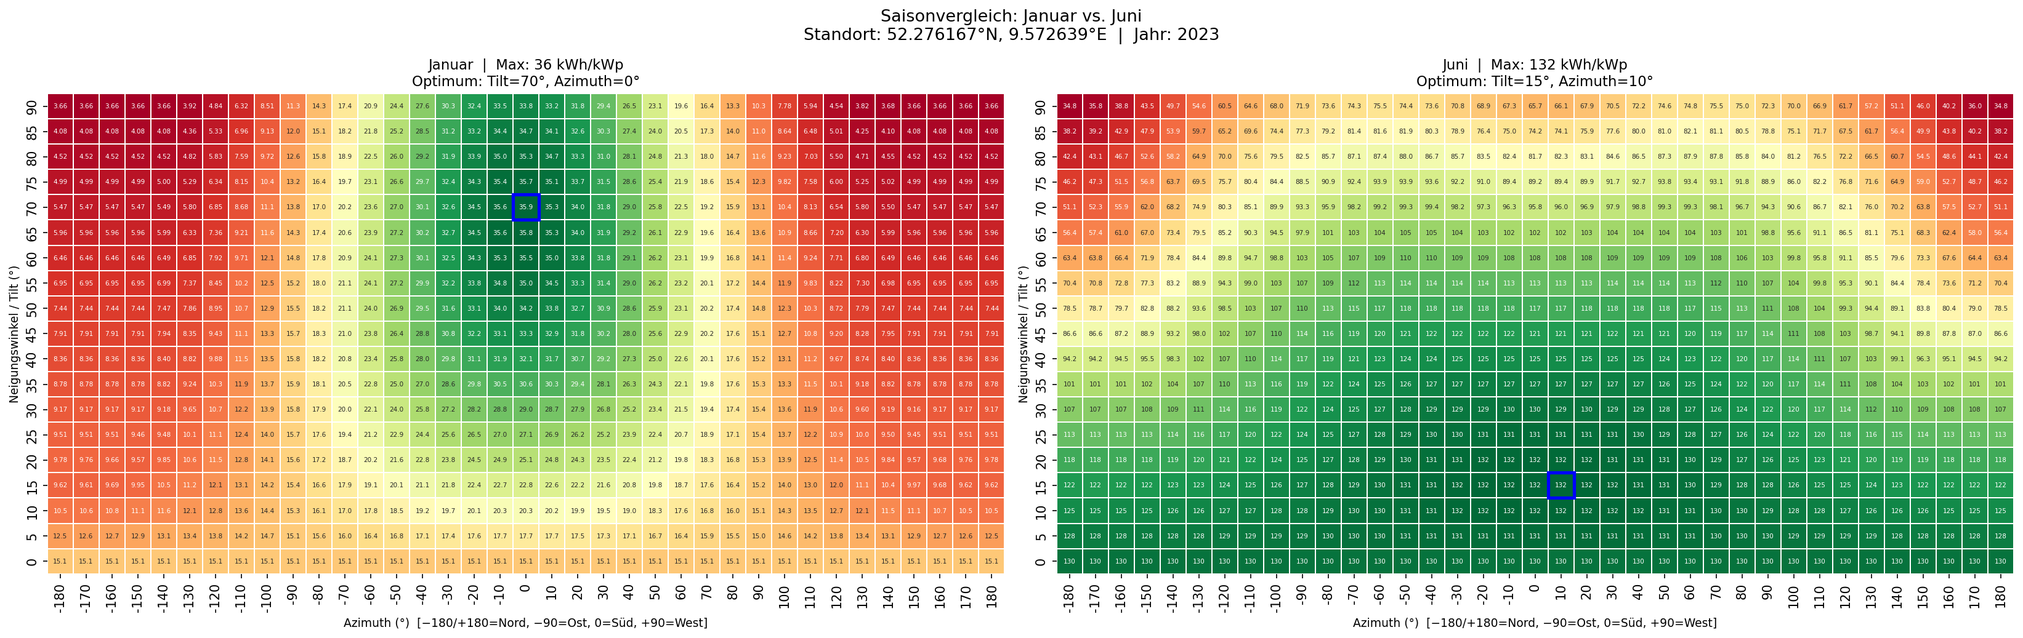
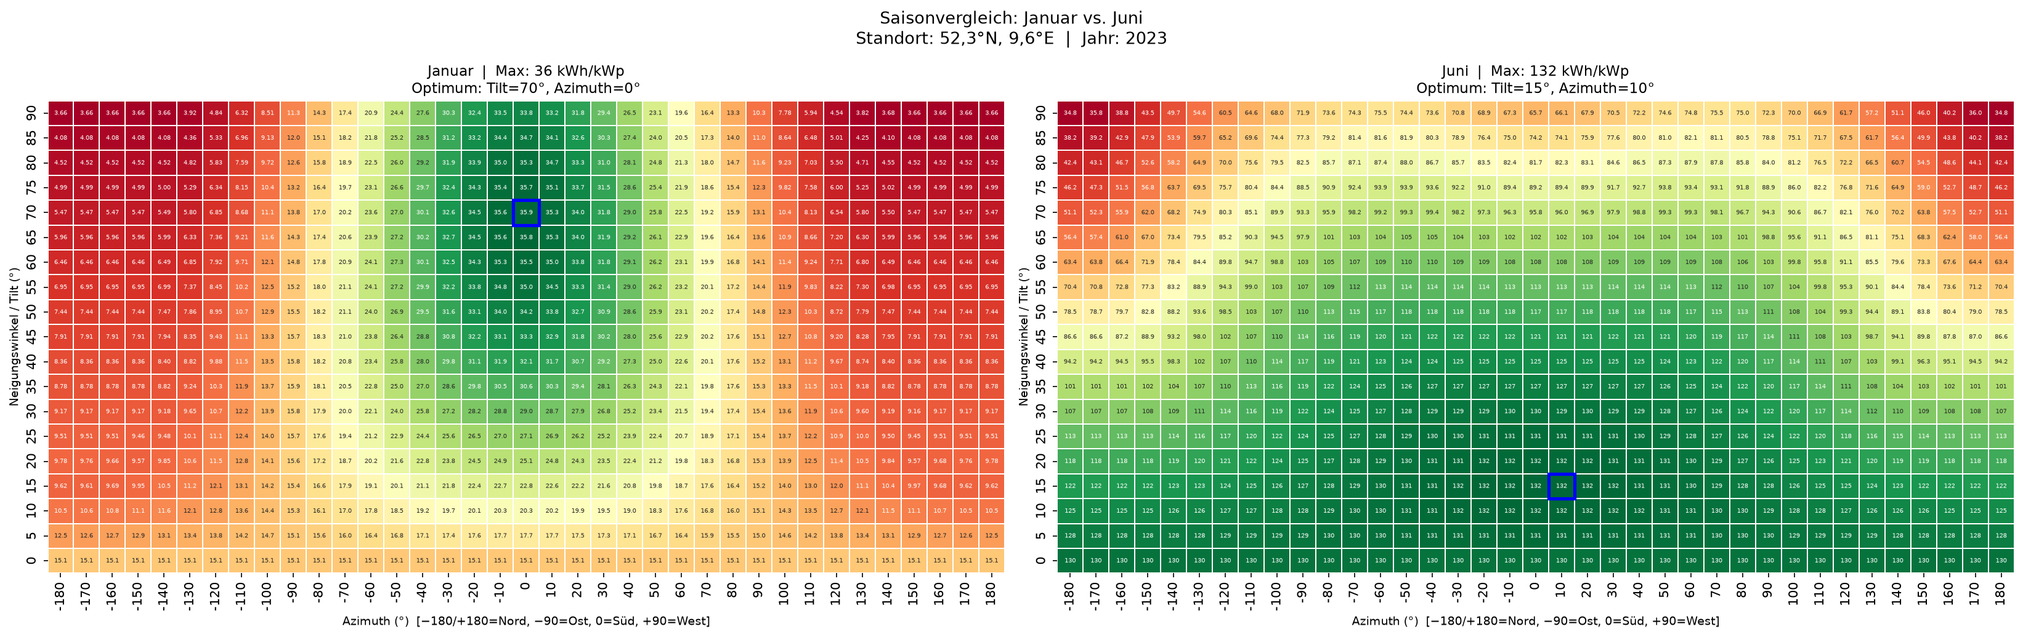
Neuer Beitrag: vertikale bifaziale Module — Ertrag und Einspeiseerlös
- vertikal.html mit sechs Abbildungen und zwei Tabellen, verlinkt aus index.html
- Standortangabe in allen Grafiken und Fußzeilen auf eine Nachkommastelle gekürzt,
  alle Abbildungen beider Beiträge dafür neu erzeugt
- Stylesheet um Formelblöcke und Tabellenbeschriftungen ergänzt

Changed region(s): [[0.0, 0.0928, 1.0, 0.9894], [0.4038, 0.0, 0.6212, 0.0928]]

diff --git a/vertikal.html b/vertikal.html
@@ -1,0 +1,220 @@
+<!DOCTYPE html>
+<html lang="de">
+<head>
+    <meta charset="UTF-8">
+    <meta name="viewport" content="width=device-width, initial-scale=1.0">
+    <title>Vertikale bifaziale Module — Ertrag und Einspeiseerlös</title>
+    <link rel="stylesheet" href="style.css">
+</head>
+<body>
+    <h1>Vertikale bifaziale Module —<br>Ertrag und Einspeiseerlös</h1>
+    <div class="meta">Von Dennis Leitz &nbsp;·&nbsp; 11. September 2026 &nbsp;·&nbsp; Solarenergie &amp; Datenanalyse</div>
+
+
+    <p class="intro-note">
+        Folgebeitrag zu <a href="index.html">PV-Ausrichtung schnell richtig entscheiden</a>. Dort ging es um Ertragsoptimierung durch die Ausrichtung von PV-Modulen. In diesem Beitrag kommt der Preis dazu, zu dem diese Kilowattstunden tatsächlich verkauft wurden, und welche neuen Schlüsse sich daraus ableiten lassen.
+    </p>
+
+    <h2>Einleitung</h2>
+    <p>
+        Die Ausrichtung einer Photovoltaikanlage wird üblicherweise so gewählt, dass der Jahresertrag möglichst hoch wird. In Norddeutschland führt das auf eine Südausrichtung mit 0° Azimut und 40° Neigung. Dieses Vorgehen ist dann richtig, wenn jede Kilowattstunde gleich viel wert ist. Bei fester Einspeisevergütung ist das der Fall.
+    </p>
+    <p>
+        Für Anlagen außerhalb der festen Vergütung gilt das nicht mehr. Dort ist der Strom nicht immer gleich viel wert; sein Preis entsteht aus Angebot und Nachfrage am Spotmarkt. Weil alle Solaranlagen gleichzeitig produzieren, ist der Preis oft gerade dann besonders niedrig, wenn die Sonne am höchsten steht. Damit wird die Frage nach der Ausrichtung neu gestellt: nicht mehr, wann am meisten Strom entsteht, sondern wann er am meisten wert ist.
+    </p>
+    <p>
+        Genau an diesem Punkt setzt ein Anlagenkonzept an: senkrecht aufgestellte bifaziale Module. Bifazial heißt, dass beide Seiten des Moduls Licht in Strom wandeln, nicht nur die Vorderseite. Bei einer zur Sonne geneigten Aufständerung bringt das wenig, weil die Rückseite zum Boden zeigt und lediglich Streulicht einfängt. Steht das Modul dagegen senkrecht, sind beide Seiten über den Tag hinweg nacheinander beleuchtet. Eine Ost-West-Ebene liefert dann morgens auf der einen und abends auf der anderen Seite Strom, mit einer Delle in der Mittagszeit. Genau in dieser Delle ist der Strom heute oft am wenigsten wert.
+    </p>
+    <p>
+        Dieser Beitrag prüft, was dieses Anlagenkonzept bringt. Erst wird der Jahresertrag betrachtet, dann der Erlös am Spotmarkt, und zuletzt die Entwicklung über die Preisjahre 2018 bis 2025.
+    </p>
+
+    <h2>Daten und Methoden</h2>
+    <p>
+        <strong>Ertragsseite.</strong> Grundlage sind stündliche Zeitreihen der PVGIS API v5.3 der Europäischen Kommission für einen Standort in Norddeutschland bei 52,3°N und 9,6°E. Abgerufen wurden alle Kombinationen aus 19 Neigungswinkeln von 0 bis 90° und 37 Himmelsrichtungen von −180° bis +180°, jeweils über die Jahre 2005 bis 2023, normiert auf 1 kWp Nennleistung und 14 % Systemverluste. Aus diesen 19 Jahren wird ein Typjahr gebildet: für jede der 8.760 Stunden eines Jahres der Mittelwert über alle Jahre. Einzelne gute oder schlechte Wetterjahre fallen damit heraus.
+    </p>
+    <p class="formel">P̄(m, d, h) = 1/N · Σ P_y(m, d, h) über y = 2005 … 2023, N = 19</p>
+    <p class="formel-note">P̄ ist die mittlere Leistung der Jahresstunde (Monat m, Tag d, Stunde h, UTC) in W je kWp, P_y der Wert dieser Stunde im Jahr y.</p>
+    <p>
+        <strong>Preisseite.</strong> Die Day-Ahead-Spotpreise der deutschen Gebotszone stammen von der Energy-Charts-API des Fraunhofer ISE, die ihrerseits auf den SMARD-Daten der Bundesnetzagentur beruht. Sie liegen ab 2015 vor: bis September 2018 für die gemeinsame Gebotszone mit Österreich, danach für Deutschland und Luxemburg.
+    </p>
+    <p>
+        <strong>Verknüpfung.</strong> Der Erlös eines Jahres ist die Summe über alle Stunden aus der Leistung dieser Stunde mal dem Spotpreis derselben Stunde. Die Ertragsseite ist dabei immer dasselbe Typjahr, nur die Preise wechseln. Unterschiede im Erlös zwischen den Preisjahren stammen also ausschließlich aus dem Markt und nicht aus dem Wetter.
+    </p>
+    <p class="formel">E(a) = Σ P̄_a,t / 1000 · p_t / 1000 über t = 1 … 8.760 [EUR/kWp]</p>
+    <p class="formel-note">E(a) ist der Jahreserlös der Ausrichtung a, P̄_a,t die Typjahr-Leistung der Stunde t in W je kWp und p_t der Spotpreis derselben Stunde in EUR/MWh.</p>
+    <p>
+        <strong>Vertikales bifaziales Modul.</strong> Ein vertikal aufgestelltes bifaziales Modul wird als Summe zweier gegenüberliegender Flächen gerechnet. Die Vorderseite geht mit vollem Wirkungsgrad ein, die Rückseite mit angenommenen 90 %. Da die Rückseite schwächer ist, ist es nicht gleichgültig, welche der beiden Himmelsrichtungen die starke Seite bekommt. Dasselbe Modul in derselben Ebene, nur um 180° gedreht montiert, ist deshalb ein eigener Fall und wird durchgehend mitgeführt.
+    </p>
+    <p class="formel">E_bi(β) = E(90°, β − 90°) + 0,9 · E(90°, β + 90°)</p>
+    <p class="formel-note">β ist die Ausrichtung der Modulebene, E(90°, a) der Wert der senkrechten Einzelfläche mit Azimut a. Für die um 180° gedrehte Montage tauschen die beiden Summanden ihre Faktoren.</p>
+    <p>
+        <strong>Ausrichtungsachse.</strong> Ein bifaziales Modul belegt immer zwei Modulebenen im Abstand von 180°. In den Abbildungen 2 bis 6 beschreibt die Abszisse die Orientierung der Modulebenen: bei 0° zeigt die Modulvorderseite nach Osten und die Modulrückseite nach Westen. Bei +90° zeigt die Modulvorderseite nach Süden und die Modulrückseite nach Norden. Bei 180° gedrehten Modulen sind Vorder- und Rückseite vertauscht. Die Ost-West-Ebene wurde als Nullpunkt gewählt, da sie für ein senkrecht montiertes bifaziales Modul am ehesten vergleichbar ist mit der 0°-Südausrichtung einer einseitigen Anlage. Sie sammelt Morgen- und Abendsonne spiegelbildlich zur Mittagsachse.
+    </p>
+    <p>
+        <strong>Referenz.</strong> Als Vergleichsmaßstab dient durchgehend die konventionelle Ausrichtung dieses Standorts: eine einseitige Anlage mit Azimut 0° nach Süden und 40° Neigung, also die Aufstellung mit dem höchsten Jahresertrag für monofaziale Module. Beim Ertrag ist das der stundenaufgelöste Mittelwert der 19 PVGIS-Jahre. Beim Erlös wird diese Ausrichtung wie jede andere gerechnet: dasselbe Typjahr, Stunde für Stunde mal den Spotpreisen des jeweiligen Preisjahres. Ertrags- und Erlösreferenz sind damit zwei verschiedene Kennzahlen derselben Aufstellung; beide stammen aus demselben Datensatz wie die vertikale Anlage und werden je Preisjahr neu gebildet.
+    </p>
+
+    <h2>Ergebnisse</h2>
+
+    <h3>Ausgangslage: der Ertrag aller Ausrichtungen</h3>
+    <p>
+        Abbildung 1 zeigt den mittleren Jahresertrag für alle möglichen Ausrichtungskombinationen. Jede Kachel steht für eine Aufstellung, die Zeile gibt den Neigungswinkel, die Spalte die Himmelsrichtung. Die Ertragswerte sind Mittelwerte aus stündlichen Zeitreihen über 19 Jahre.
+    </p>
+    <p>
+        Das Maximum liegt bei 40° Neigung und Südausrichtung mit 1.029 kWh/kWp. Diese Aufstellung ist der übliche Auslegungsfall und dient im Folgenden durchgehend als Vergleichsmaßstab. Für diesen Beitrag zählt die oberste Zeile mit 90° Neigung, also die vertikale Aufstellung. Dort steht nach Süden 737 kWh/kWp, nach Osten 519 und nach Westen 508.
+    </p>
+    <p>
+        Diese Zeile enthält bereits alles, was für ein vertikales bifaziales Modul gebraucht wird. Jede Kachel beschreibt eine einseitige vertikale Fläche. Ein bifaziales Modul besteht aus zwei solchen Flächen im Abstand von 180°, die sich denselben Rahmen teilen. Sein Ertrag ist die Summe der beiden zugehörigen Orientierungen, wobei die Rückseite mit 90 % eingeht. Ein Modul mit der Vorderseite nach Osten kombiniert also die Kachel bei −90° mit der Kachel bei +90°, letztere lediglich zu 90 %.
+    </p>
+
+    <figure>
+        <img src="img/10_jahresertrag_mean.png" alt="Heatmap des mittleren Jahresertrags">
+        <figcaption>Abb. 1 — Mittlerer Jahresertrag in kWh/kWp für alle Kombinationen aus Neigungswinkel und Himmelsrichtung, gemittelt über die Jahre 2005 bis 2023. Die oberste Zeile mit 90° Neigung ist die vertikale Aufstellung. Ein vertikales bifaziales Modul entsteht aus zwei Kacheln dieser Zeile, die 180° auseinanderliegen.</figcaption>
+    </figure>
+
+
+    <h3>Jahresertrag der vertikalen Aufstellung</h3>
+    <p>
+        Abbildung 2 führt diese Summenbildung aus Modulvorder- und Modulrückseite für alle Orientierungen aus. Die durchgezogene Kurve gilt für Module, deren Vorderseite bei 0° nach Osten und deren Rückseite nach Westen zeigt. Die gestrichelte Kurve stellt ein Modul dar, das um 180° gedreht montiert ist, also mit Vorder- und Rückseite vertauscht. Diese Unterscheidung durch die Linienart gilt in allen folgenden Abbildungen. Die grüne Linie ist die Referenz: sie zeigt die sonst übliche, nach dem Ertragsmaximum gewählte Ausrichtung dieses Standorts, also Azimut 0° nach Süden bei 40° Neigung aus Abbildung 1.
+    </p>
+    <p>
+        Beide bifazialen Kurven verlaufen flach und erreichen ihr Maximum dicht neben der Ost-West-Ebene. Die durchgezogene Kurve liegt mit 981 kWh/kWp bei +10° am höchsten, die gestrichelte mit 976 kWh/kWp bei −10°. Gegenüber der Referenz mit 1.029 kWh/kWp fehlen damit 4,6 %, die vertikale Aufstellung erreicht 95,4 % des Ertrages. Nach Kilowattstunden bewertet bleibt die konventionelle Ausrichtung vorteilhaft.
+    </p>
+
+    <figure>
+        <img src="img/11_vertikal_jahresertrag.png" alt="Jahresertrag vertikaler Module über die Ausrichtung">
+        <figcaption>Abb. 2 — Jahresertrag vertikal montierter bifazialer Module über alle Himmelsausrichtungen. Durchgezogen die bifaziale Aufstellung mit der starken Seite auf der Ostseite, gestrichelt in derselben Farbe dasselbe Modul um 180° gedreht, grau gepunktet die einseitige Variante. Die grüne Linie markiert die konventionelle Ausrichtung mit Azimut 0° und 40° Neigung.</figcaption>
+    </figure>
+
+
+    <h3>Vom Ertrag zum Erlös</h3>
+    <p>
+        Kilowattstunden sind das richtige Maß, solange die Vergütung fest ist. Ohne feste Vergütung zählt, was der Strom in der Stunde seiner Erzeugung wert war. Und hier unterscheiden sich die beiden Konzepte deutlich, denn sie liefern zu verschiedenen Tageszeiten.
+    </p>
+    <p>
+        Abbildung 3 zeigt das am Beispiel des 15. Juni 2026. Neben der konventionellen Ausrichtung sind zwei vertikale Aufstellungen eingetragen, die bewusst gegenläufig ausgelegt sind. Die durchgezogene Kurve steht für eine Ebene bei +20° mit der starken Seite nach Osten, also auf maximalen Morgenertrag ausgelegt. Die gestrichelte steht für eine Ebene bei −20° mit dem Modul um 180° gedreht, die starke Seite zeigt nach Westen und liefert das Maximum am Abend. Beide Ausrichtungen liefern nahezu denselben Jahresertrag, sie unterscheiden sich nur darin, welche Tageshälfte die starke Seite bedient. Dazu kommt der Spotpreis dieses Tages in Viertelstundenauflösung. Die PV-Leistung entspricht dem Typjahresverlauf für diesen Kalendertag, die Preise sind die tatsächlichen.
+    </p>
+    <p>
+        Der Unterschied der beiden Orientierungen ist gut zu sehen. Die auf den Morgen ausgelegte Variante trifft an diesem Tag hohe Erträge und hohe Spotpreise am Vormittag, die auf den Abend ausgelegte Variante erreicht hohe Spotpreise nur über eine kürzere Zeitspanne. Besonders deutlich ist, dass die konventionelle Anlage an diesem Tag zwar hohe Erträge erzielt, wegen der niedrigen Spotpreise zur Mittagszeit aber den geringsten Erlös einfährt.
+    </p>
+    <p>
+        Für diesen einen Tag lässt sich das ausrechnen. Die konventionelle Ausrichtung erzeugt 4,23 kWh je kWp und erlöst damit 8,6 Cent. Beide vertikalen Aufstellungen erzeugen 4,46 kWh, also 5 % mehr, erlösen damit aber 19,6 beziehungsweise 19,2 Cent, also mehr als das Doppelte. Der Tag ist bewusst ein ausgeprägter Sommertag und nicht repräsentativ, er zeigt aber den Mechanismus, der sich im Jahresmittel abgeschwächt wiederfindet.
+    </p>
+
+    <figure>
+        <img src="img/12_tagesprofil.png" alt="Leistung und Spotpreis im Tagesverlauf">
+        <figcaption>Abb. 3 — Tagesverlauf am 15. Juni 2026. Grün die konventionelle Ausrichtung, rot die vertikalen bifazialen Modul-Aufstellungen: durchgezogen +20° mit der Vorderseite nach Osten für maximalen Morgenertrag, gestrichelt −20° mit um 180° gedrehtem Modul und der Vorderseite nach Westen für maximalen Abendertrag. Grau der Spotpreis auf der rechten Ordinate. Die PV-Leistung ist der Typjahr-Wert dieses Kalendertages.</figcaption>
+    </figure>
+
+    <p>
+        Rechnet man das für jede Stunde des Jahres für alle möglichen Orientierungen durch, entsteht Abbildung 4. Für jedes der drei Preisjahre 2023 bis 2025 gibt es eine Kurve, dazu die um 180° gedrehte Montage und die einseitige Variante. Die waagerechte Linie derselben Farbe ist der Erlös der konventionellen Ausrichtung im selben Jahr.
+    </p>
+    <p>
+        In allen drei Jahren verläuft die Kurve der vertikalen bifazialen Anlagen über einen weiten Bereich oberhalb der Referenzlinie konventioneller Anlagen. Eine Aufstellung, die nach Abbildung 2 rund 5 % weniger Strom erzeugt, bringt am Spotmarkt also mehr Geld ein. Der Grund steht in Abbildung 3: die fehlenden Kilowattstunden fehlen mittags, wenn wenig gezahlt wird, die zusätzlichen kommen morgens und abends dazu, wenn mehr gezahlt wird.
+    </p>
+
+    <figure>
+        <img src="img/13_vertikal_erloes_varianten.png" alt="Einspeiseerlös aller Montagevarianten je Preisjahr">
+        <figcaption>Abb. 4 — Einspeiseerlös am Spotmarkt für die Preisjahre 2023 bis 2025. Die Farbe steht für das Jahr, die Linienart für die Variante: durchgezogen bifazial mit der starken Seite bei 0° Azimut auf der Ostseite, gestrichelt dasselbe Modul um 180° gedreht, gepunktet monofazial. Die waagerechten Linien sind die konventionelle Ausrichtung (Azimut 0°, Neigung 40°) des jeweiligen Jahres.</figcaption>
+    </figure>
+
+
+    <h3>Vergleich zur konventionellen Ausrichtung</h3>
+    <p>
+        Die Erlösunterschiede werden besonders in der normierten Darstellung deutlich. Abbildung 5 teilt dafür den Erlös aller Ausrichtungen durch den Erlös, den die konventionelle Ausrichtung im selben Jahr erbracht hat. Die Linie bei 1,00 ist damit dieser Vergleichsfall, und jeder Abstand nach oben ist ein prozentualer Mehrerlös.
+    </p>
+    <p>
+        Für 2023 ließe sich sagen: eine vertikale Aufstellung mit der Vorderseite bei +10° hätte 8,8 % mehr Erlös gebracht als die nach dem Ertragsmaximum gewählte Ausrichtung. Für 2024 steigt dieser Wert auf 17,3 % und für 2025 auf 21,1 %. Weiter lässt sich sagen, dass 2025 der gesamte Bereich von −50° bis +70° einen höheren Erlös erbracht hat als die konventionelle Ausrichtung. Die genaue Lage des Maximums ist dagegen unkritisch, zwischen 0° und +20° liegen alle Werte innerhalb eines Prozents.
+    </p>
+
+    <figure>
+        <img src="img/14_vertikal_erloes_relativ.png" alt="Erlös relativ zur konventionellen Ausrichtung">
+        <figcaption>Abb. 5 — Einspeiseerlös im Verhältnis zur konventionellen Ausrichtung, jeweils normiert mit deren Erlös im selben Preisjahr. Durchgezogen die vertikale bifaziale Aufstellung mit Vorderseite bei 0° Azimut nach Osten, gestrichelt die um 180° gedrehte Montage.</figcaption>
+    </figure>
+
+    <p>
+        Im Weiteren wird ebenfalls der Trend der Vorjahre gezeigt. Abbildung 6 erweitert die Betrachtung auf die Preisjahre 2018 bis 2025 und kennzeichnet jeweils das Maximum und verbindet es mit dem des Folgejahres.
+    </p>
+    <p>
+        Der Mehrerlös wächst von +0,2 % im Jahr 2018 über +3,9 % im Jahr 2020 und +8,8 % im Jahr 2023 auf +21,1 % im Jahr 2025. Neben dem steigenden Vorteil der vertikalen bifazialen Anlagen zeigt der Pfad eine zweite Bewegung. Das Optimum liegt nicht bei der reinen Ost-West-Ebene, sondern durchgehend leicht in Richtung Süd-Nord gedreht, in den Jahren 2019 und 2020 bei +20°, seit 2022 bei +10°. Diese Drehung verschiebt die Erzeugung im Jahresmittel in Richtung Vormittag: bei +20° fallen 53,0 % der Jahresmenge vor 11 Uhr UTC an, bei 0° sind es 48,1 %. Dass das Optimum seit 2022 wieder näher an der symmetrischen Lage liegt, heißt entsprechend, dass die Abendstunden gegenüber den Vormittagsstunden an Wert gewonnen haben. Für die um 180° gedrehte Montage, im Bild die Quadrate, liegt das Optimum über fast alle Jahre unverändert bei 0°.
+    </p>
+
+    <figure>
+        <img src="img/16_vertikal_maxima_pfad.png" alt="Wanderung des Erlösoptimums 2018 bis 2025">
+        <figcaption>Abb. 6 — Wanderung des Erlösoptimums über die Preisjahre 2018 bis 2025. Sterne markieren das Maximum der vertikalen bifazialen Anlage, Quadrate das der gegenüber um 180° gedrehten Montage. Die Pfeile verbinden das Maximum jedes Jahres mit dem Folgejahr.</figcaption>
+    </figure>
+
+
+    <h2>Fazit</h2>
+    <p>
+        Der Befund lässt sich in einem Satz zusammenfassen: Vertikal aufgestellte bifaziale Module erreichen im statistischen Mittel nur 95,4 % des Ertrages der konventionellen, auf Ertrag optimierten Ausrichtung, erzielen am Spotmarkt aber in sieben der acht Jahre seit 2018 mehr Erlös, und der Abstand wächst: 2025 sind es 21,1 %.
+    </p>
+    <p>
+        Tabelle 1 stellt die Konzepte gegenüber. Für die vertikalen bifazialen Anlagen wurden +10° für die normale Montage und 0° für die um 180° gedrehte Montage gewählt. Beide Ausrichtungen stellen für den Zeitraum von 2018 bis 2025 jeweils die Orientierung mit dem höchsten Gesamterlös ihrer Montagerichtung dar.
+    </p>
+    <table>
+        <tr>
+            <th rowspan="2">Jahr</th>
+            <th class="grp" colspan="3">Einspeiseerlös (EUR/kWp)</th>
+            <th class="grp" colspan="2">Mehrerlös gegenüber konventionell</th>
+        </tr>
+        <tr>
+            <th class="num">konventionell</th>
+            <th class="num">bifazial +10°</th>
+            <th class="num">bifazial 0°, gedreht</th>
+            <th class="num">+10°</th>
+            <th class="num">0°, gedreht</th>
+        </tr>
+        <tr><td>2018</td><td class="num">45,30</td><td class="num">45,41</td><td class="num">45,00</td><td class="num">+0,2 %</td><td class="num">−0,7 %</td></tr>
+        <tr><td>2019</td><td class="num">36,50</td><td class="num">37,15</td><td class="num">36,78</td><td class="num">+1,8 %</td><td class="num">+0,8 %</td></tr>
+        <tr><td>2020</td><td class="num">26,85</td><td class="num">27,84</td><td class="num">27,52</td><td class="num">+3,7 %</td><td class="num">+2,5 %</td></tr>
+        <tr><td>2021</td><td class="num">82,55</td><td class="num">81,62</td><td class="num">80,56</td><td class="num">−1,1 %</td><td class="num">−2,4 %</td></tr>
+        <tr><td>2022</td><td class="num">227,34</td><td class="num">243,34</td><td class="num">242,06</td><td class="num">+7,0 %</td><td class="num">+6,5 %</td></tr>
+        <tr><td>2023</td><td class="num">77,58</td><td class="num">84,41</td><td class="num">83,88</td><td class="num">+8,8 %</td><td class="num">+8,1 %</td></tr>
+        <tr><td>2024</td><td class="num">52,65</td><td class="num">61,78</td><td class="num">61,85</td><td class="num">+17,3 %</td><td class="num">+17,5 %</td></tr>
+        <tr><td>2025</td><td class="num">52,78</td><td class="num">63,92</td><td class="num">64,12</td><td class="num">+21,1 %</td><td class="num">+21,5 %</td></tr>
+        <tr><td>Σ</td><td class="num">601,55</td><td class="num">645,47</td><td class="num">641,77</td><td class="num">+7,3 %</td><td class="num">+6,7 %</td></tr>
+    </table>
+    <div class="tab-titel">Tabelle 1 — Einspeiseerlös und Mehrerlös gegenüber der konventionellen Ausrichtung</div>
+
+    <p>
+        Eine Nebenbeobachtung betrifft die Frage, welche der beiden Montagerichtungen die bessere ist. Neben der Ausrichtung der Ebene entscheidet die Wahl der Modulvorderseite darüber, ob der Schwerpunkt der Erzeugung am Vormittag oder am Abend liegt. Tabelle 2 stellt je Jahr die Maxima beider Montagerichtungen aus Abbildung 6 gegenüber. 2021 wanderte das Optimum in Richtung Vormittag und lag mit +30° am weitesten dort; die gedrehte Montage hatte ihr Maximum bei +10°. Seither läuft die Bewegung zurück zur symmetrischen Ost-West-Ebene, seit 2022 liegt das Optimum bei +10° und 0°. Der Abend hat dabei gegenüber dem Vormittag an Wert gewonnen: 2021 lag die abendliche Preisspitze im Jahresmittel 13 % über der morgendlichen, 2025 waren es 26 %. Dazu passt, dass seit 2024 erstmals die um 180° gedrehte Montage mit der starken Seite nach Westen vorn liegt, wenn auch nur um 0,1 bis 0,3 %. Ob sich das fortsetzt, ist offen: Der Ausbau großer Batteriespeicher verschiebt Strom aus der Mittagsdelle in die Abendstunden und kann den Abstand zwischen beiden Tageshälften wieder verringern.
+    </p>
+    <table class="ohne-summe">
+        <tr>
+            <th rowspan="2">Jahr</th>
+            <th class="grp" colspan="2">Erlösmaximum (EUR/kWp)</th>
+            <th class="num" rowspan="2">Differenz</th>
+        </tr>
+        <tr>
+            <th class="num">bifazial</th>
+            <th class="num">180° gedreht</th>
+        </tr>
+        <tr><td>2018</td><td class="num">45,41</td><td class="num">45,00</td><td class="num">−0,91 %</td></tr>
+        <tr><td>2019</td><td class="num">37,16</td><td class="num">36,78</td><td class="num">−1,02 %</td></tr>
+        <tr><td>2020</td><td class="num">27,90</td><td class="num">27,55</td><td class="num">−1,27 %</td></tr>
+        <tr><td>2021</td><td class="num">82,14</td><td class="num">80,63</td><td class="num">−1,84 %</td></tr>
+        <tr><td>2022</td><td class="num">243,34</td><td class="num">242,06</td><td class="num">−0,53 %</td></tr>
+        <tr><td>2023</td><td class="num">84,41</td><td class="num">83,88</td><td class="num">−0,63 %</td></tr>
+        <tr><td>2024</td><td class="num">61,78</td><td class="num">61,85</td><td class="num">+0,12 %</td></tr>
+        <tr><td>2025</td><td class="num">63,92</td><td class="num">64,12</td><td class="num">+0,32 %</td></tr>
+    </table>
+    <div class="tab-titel">Tabelle 2 — Erlösmaximum beider Montagerichtungen je Preisjahr</div>
+
+
+    <div class="tags">
+        <span>#Solarenergie</span>
+        <span>#Photovoltaik</span>
+        <span>#Bifazial</span>
+        <span>#AgriPV</span>
+        <span>#Direktvermarktung</span>
+        <span>#Datenanalyse</span>
+    </div>
+
+    <footer>
+        Datenquellen: PVGIS API v5.3 — European Commission, Joint Research Centre (JRC) · Spotpreise: Energy-Charts, Fraunhofer ISE, Datenbasis SMARD/Bundesnetzagentur, CC BY 4.0 · Standort: 52,3°N, 9,6°E · PV-Zeitraum 2005–2023 · Preise 2015–2025 · Systemverluste 14 % · Rückseitenwirkungsgrad 90 % · <a href="https://github.com/dleitz-projects/pvgis_visualizer" target="_blank">Code auf GitHub</a>
+    </footer>
+
+</body>
+</html>

diff --git a/style.css b/style.css
@@ -109,8 +109,39 @@ td {
     border-bottom: 1px solid #eaeaea;
 }
 
+th.num, td.num { text-align: right; }
+th.grp { text-align: center; }
+
 tr:nth-child(even) td { background: #f8f9fb; }
 tr:last-child td { font-weight: 600; background: #eef5ff; }
+
+/* Tabellen ohne Summenzeile: letzte Zeile nicht hervorheben */
+table.ohne-summe tr:last-child td { font-weight: 400; background: transparent; }
+table.ohne-summe tr:nth-child(even) td { background: #f8f9fb; }
+
+/* Bildunterschrift-artige Beschriftung unter einer Tabelle */
+.tab-titel {
+    font-size: 0.85rem;
+    color: #666;
+    margin: -1em 0 2em 0;
+}
+
+/* --- Formeln --- */
+.formel {
+    font-family: "SFMono-Regular", Consolas, "Liberation Mono", Menlo, monospace;
+    font-size: 0.92rem;
+    background: #f6f8fa;
+    border-left: 3px solid #d0d7de;
+    padding: 10px 14px;
+    margin: 1.2em 0 0.4em 0;
+    overflow-x: auto;
+}
+
+.formel-note {
+    font-size: 0.85rem;
+    color: #666;
+    margin: 0 0 1.6em 14px;
+}
 
 /* --- Monatsbalken --- */
 .month-bar-wrap {

diff --git a/index.html b/index.html
@@ -131,6 +131,12 @@
         Wer den Ansatz selbst anwenden möchte: Der Code ist auf <a href="https://github.com/dleitz-projects/pvgis_visualizer" target="_blank">GitHub</a> verfügbar.
     </p>
 
+    <p class="intro-note">
+        Fortsetzung: <a href="vertikal.html">Vertikale bifaziale Module — Ertrag und
+        Einspeiseerlös</a>. Dort werden senkrecht aufgestellte bifaziale Module untersucht und
+        die stündliche Erzeugung mit den Spotpreisen der Jahre 2015 bis 2025 bewertet.
+    </p>
+
     <div class="tags">
         <span>#Solarenergie</span>
         <span>#Photovoltaik</span>
@@ -142,7 +148,7 @@
 
     <footer>
         Datenquelle: PVGIS API v5.2 — European Commission, Joint Research Centre (JRC) ·
-        Standort: 52,276°N, 9,573°E · Zeitraum: 2005–2020 · Systemverluste: 14 % ·
+        Standort: 52,3°N, 9,6°E · Zeitraum: 2005–2020 · Systemverluste: 14 % ·
         <a href="https://github.com/dleitz-projects/pvgis_visualizer" target="_blank">Code auf GitHub</a>
     </footer>
 
